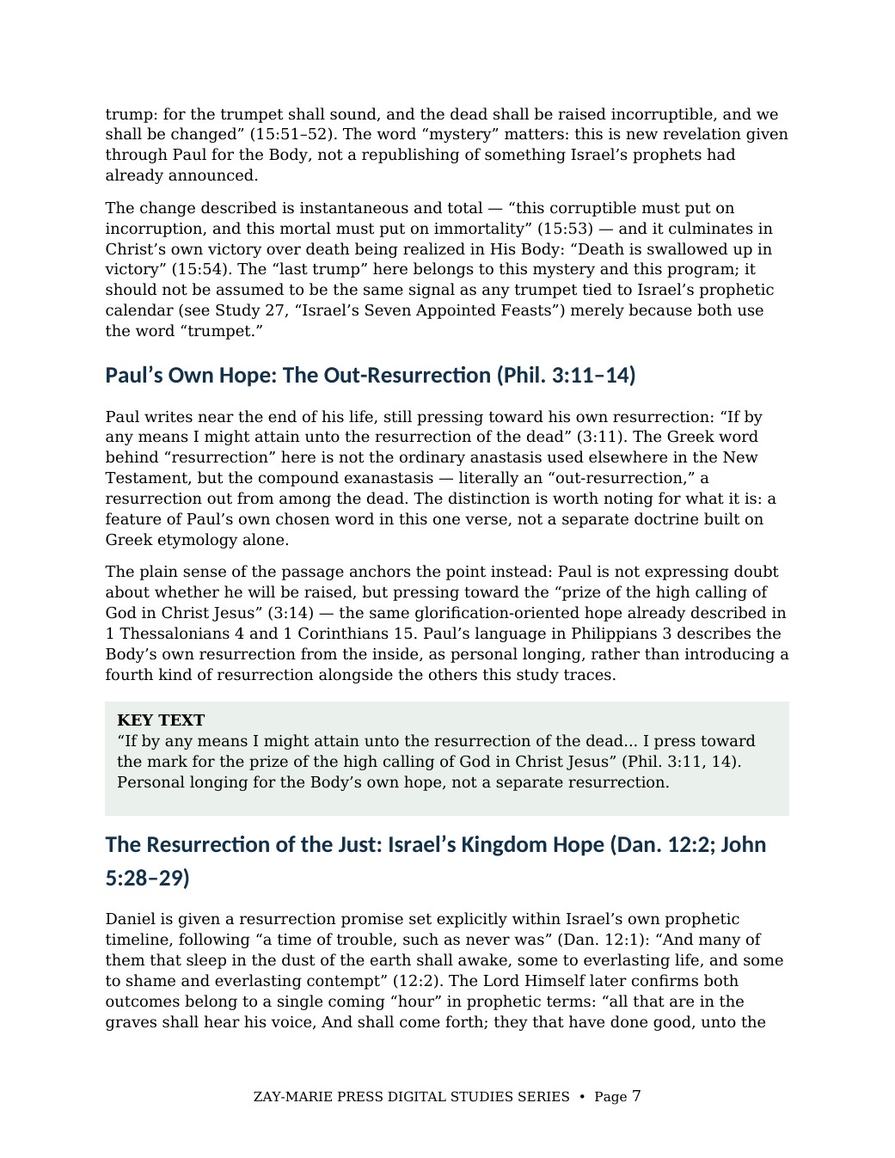
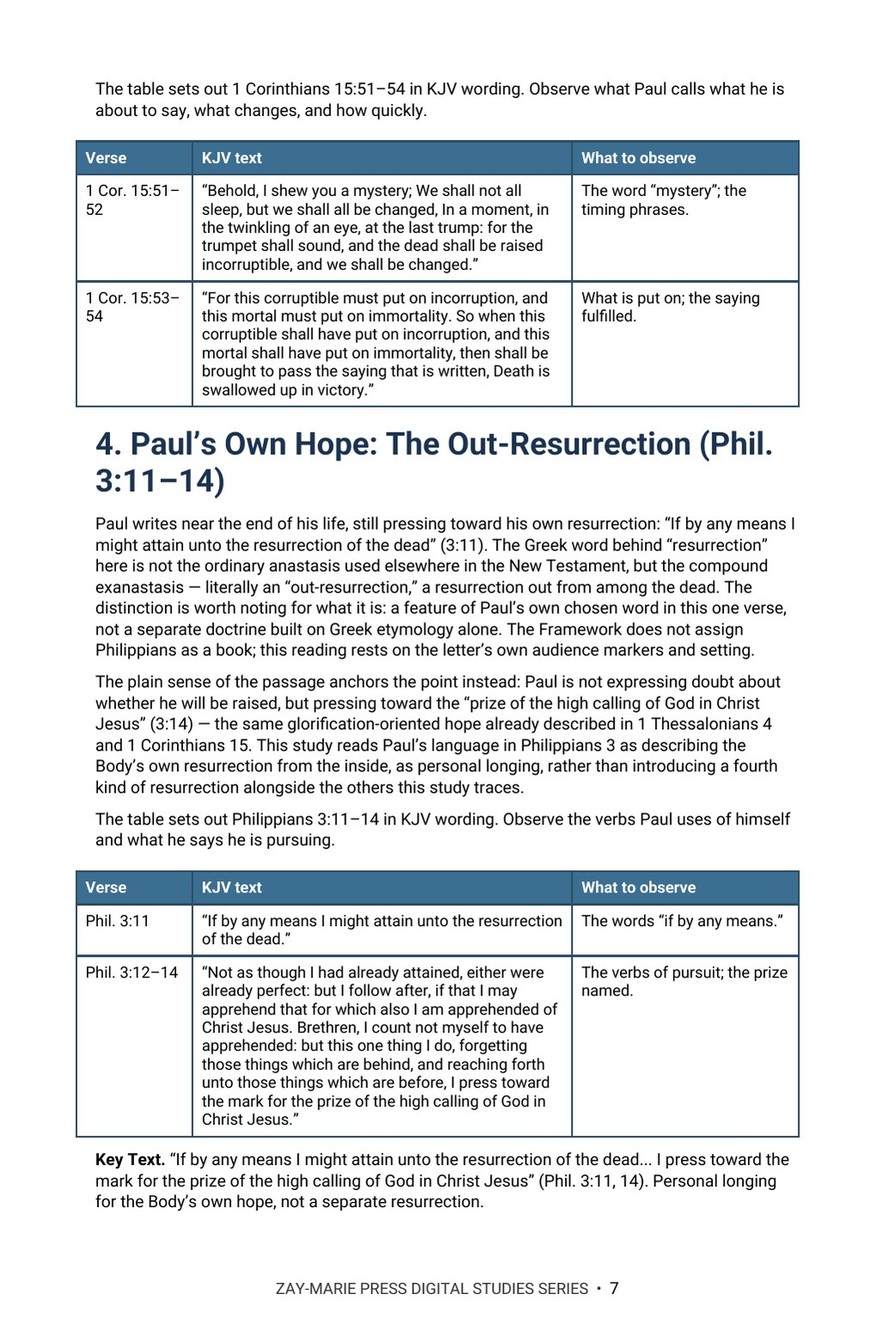
Study 49: PAM/Framework conformance (Study 29 correction), section 17 preview wording, 16 pages, previews re-rendered, audit v1.80
Claude-Session: https://claude.ai/code/session_013kzJPyMkodVfrxEZGjk3me

Changed region(s): [[0.0615, 0.0624, 0.8915, 0.9042], [0.3074, 0.9354, 0.707, 0.9666]]

diff --git a/study-49-the-resurrections-of-scripture.html b/study-49-the-resurrections-of-scripture.html
@@ -1,4 +1,4 @@
 <!doctype html>
 <html lang="en"><head><meta charset="utf-8"><meta name="viewport" content="width=device-width,initial-scale=1"><title>The Resurrections of Scripture | Zay-Marie Press</title><meta name="description" content="Scripture describes more than one resurrection. Distinguish Christ’s firstfruits, the Body’s heavenly hope, Israel’s Kingdom-tied resurrections of the just and unjust, and Ezekiel 37’s national restoration. Preview Study 49 from Zay-Marie Press."><link rel="stylesheet" href="styles.css?v=20260928-8"><link rel="icon" type="image/png" href="assets/zay-marie-press-favicon.png"><style>
 .study-detail-page{background:#fff;color:#252525}.detail-hero{background:linear-gradient(135deg,#f8f5ec,#e3ece2);padding:58px 0}.detail-hero-grid{display:grid;grid-template-columns:minmax(250px,.72fr) minmax(0,1.28fr);gap:58px;align-items:center}.detail-cover{max-width:390px;margin:auto}.detail-cover img{display:block;width:100%;height:auto;box-shadow:0 14px 36px rgba(8,45,69,.18)}.detail-hero h1{font-size:clamp(2.7rem,5vw,4.7rem);line-height:1.02;margin:8px 0 10px;color:#143823}.detail-subtitle{font-family:Georgia,serif;font-size:1.35rem;font-weight:700;color:#082d45;margin:0 0 7px}.detail-kicker{font-family:Georgia,serif;font-style:italic;font-size:1.05rem;color:#4a4a44;margin:0 0 22px}.detail-copy{font-size:1.08rem;line-height:1.65;max-width:760px}.detail-buyline{display:flex;align-items:center;gap:18px;flex-wrap:wrap;margin-top:25px}.detail-price{font-family:Georgia,serif;font-size:2rem;font-weight:700;color:#143823}.detail-format,.preview-card .page-no{font-family:Arial,sans-serif;font-size:.76rem;font-weight:700;letter-spacing:.1em;text-transform:uppercase;color:#176b3a}.detail-button{display:inline-block;background:#176b3a;color:#fff;padding:13px 22px;font-family:Arial,sans-serif;font-size:.8rem;font-weight:700;letter-spacing:.07em;text-transform:uppercase}.detail-button.pending{opacity:.72;cursor:default}.detail-section{padding:66px 0}.detail-section.soft{background:#f6f7f2}.detail-section.cream{background:#faf8f2}.detail-section h2{color:#143823;margin:6px 0 18px;font-size:clamp(2rem,3.4vw,3rem)}.detail-section .lead{max-width:920px;font-size:1.1rem;line-height:1.62}.study-distinction{max-width:920px;margin-top:28px;margin-bottom:28px;padding:26px 28px;background:#fff;border:1px solid #d8d1bf;border-left:4px solid #b8871c}.study-distinction h3{margin:0 0 10px;color:#143823}.study-distinction p{margin:0 0 14px;line-height:1.62}.study-distinction a{font-family:Arial,sans-serif;font-weight:700;color:#176b3a;text-decoration:none}.study-points{display:grid;grid-template-columns:repeat(3,1fr);gap:18px;margin-top:28px;margin-bottom:28px}.study-point,.scripture-card,.preview-card,.include-item{background:#fff;border:1px solid var(--line);text-align:left}.study-point{border-top:3px solid #176b3a;padding:22px}.study-point h3{color:#143823;margin:0 0 8px;font-size:1.2rem}.study-point p,.scripture-card p,.preview-card p,.include-item p{margin:0;line-height:1.55}.scripture-grid{display:grid;grid-template-columns:repeat(4,1fr);gap:14px;margin-top:24px;margin-bottom:24px}.scripture-card{padding:22px 20px;color:#143823}.scripture-card h3{margin:0 0 9px;font-family:Georgia,serif;font-size:1rem;line-height:1.35}.scripture-card p{font-size:.94rem;color:#45453f}.excerpt{max-width:900px;margin:28px auto;border-left:4px solid #b8871c;padding:10px 0 10px 28px}.excerpt blockquote{font-family:Georgia,serif;font-size:clamp(1.45rem,2.5vw,2rem);line-height:1.45;color:#143823;margin:0 0 16px}.excerpt p{line-height:1.6;margin:0}.preview-grid{display:grid;grid-template-columns:repeat(3,1fr);gap:20px;margin-top:28px;margin-bottom:28px}.preview-card{padding:18px;min-height:210px;box-shadow:0 7px 20px rgba(20,40,25,.05)}.preview-image-link{display:block;margin:0 0 18px}.preview-image-link img{display:block;width:100%;height:auto;border:1px solid #d8d1bf;box-shadow:0 8px 22px rgba(20,40,25,.1);transition:transform .18s ease,box-shadow .18s ease}.preview-image-link:hover img{transform:translateY(-2px);box-shadow:0 11px 28px rgba(20,40,25,.16)}.preview-card h3{color:#143823;margin:8px 0 10px}.preview-instruction{margin:10px 0 0;font-family:Arial,sans-serif;font-size:.78rem;letter-spacing:.04em;color:#5b5b55}.includes-grid{display:grid;grid-template-columns:repeat(4,1fr);gap:14px;margin-top:26px}.include-item{padding:22px 20px;color:#143823}.include-item h3{margin:0 0 9px;font-family:Arial,sans-serif;font-size:.86rem;line-height:1.35;letter-spacing:.02em}.include-item p{font-size:.94rem;color:#45453f}.final-buy{background:#082d45;color:#fff;border-top:4px solid #b8871c;padding:42px 48px;display:grid;grid-template-columns:1fr auto;gap:36px;align-items:center}.final-buy .eyebrow,.final-buy h2,.final-buy .detail-price{color:#fff}.final-buy h2{margin:7px 0 6px}.final-buy p{margin:0}.final-offer{text-align:center}.back-link{display:inline-block;margin-top:18px;color:#143823;font-family:Arial,sans-serif;font-weight:700;text-decoration:none}.preview-lightbox{position:fixed;inset:0;z-index:10000;display:none;align-items:flex-start;justify-content:center;background:rgba(8,22,16,.88);padding:24px;overflow:auto}.preview-lightbox.open{display:flex}.preview-lightbox img{display:block;width:auto;height:auto;max-width:none;box-shadow:0 18px 55px rgba(0,0,0,.4);background:#fff}.preview-lightbox-close{position:fixed;top:18px;right:24px;z-index:10001;width:46px;height:46px;border:1px solid rgba(255,255,255,.65);border-radius:50%;background:rgba(0,0,0,.55);color:#fff;font:32px/1 Arial,sans-serif;cursor:pointer}@media(max-width:900px){.detail-hero-grid{grid-template-columns:1fr;gap:34px}.detail-cover{max-width:330px}.study-points{grid-template-columns:repeat(2,1fr)}.scripture-grid,.includes-grid{grid-template-columns:repeat(2,1fr)}.preview-grid,.final-buy{grid-template-columns:1fr}.final-offer{text-align:left}}@media(max-width:560px){.detail-hero{padding:42px 0}.detail-section{padding:50px 0}.study-points,.scripture-grid,.includes-grid{grid-template-columns:1fr}.final-buy{padding:32px 24px}.detail-buyline{align-items:flex-start;flex-direction:column;gap:8px}.preview-lightbox{padding:58px 10px 24px}.preview-lightbox img{width:100%;max-width:100%;height:auto}} .detail-hero h1{font-size:clamp(2.1rem,4.2vw,3.7rem);line-height:1.08}</style></head><body class="study-detail-page">
-<header class="site-header"><div class="wrap nav"><a class="logo" href="index.html" aria-label="Zay-Marie Press home"><img src="assets/zay-marie-press-logo-hq.png" alt="Zay-Marie Press" width="420" height="238"></a><button class="menu-toggle" type="button" aria-expanded="false" aria-controls="primary-nav">MENU</button><nav aria-label="Primary navigation" class="primary-nav" id="primary-nav"><a href="index.html">HOME</a><a href="books.html">BOOKS</a><a href="series.html">SERIES</a><a class="active" aria-current="page" href="digital-studies.html">DIGITAL STUDIES</a><a href="biblical-hermeneutics-course.html">COURSE</a><a href="about.html">ABOUT</a><a href="resources.html">RESOURCES</a><a href="contact.html">CONTACT</a></nav></div></header><main><section class="detail-hero"><div class="wrap detail-hero-grid"><div class="detail-cover"><picture><source srcset="assets/study-49-cover.webp" type="image/webp"><img src="assets/study-49-cover.jpg" alt="The Resurrections of Scripture — Study 49 cover"></picture></div><div><div class="eyebrow">STUDY 49 · DIGITAL STUDY</div><h1>The Resurrections of Scripture</h1><p class="detail-subtitle">One Word, Two Programs, and the Difference Between Them</p><p class="detail-kicker">A Biblical Examination of the Resurrection of the Body of Christ, the Resurrection of the Just and of the Unjust, and Israel's National Restoration in Ezekiel 37</p><p class="detail-copy">Scripture speaks of resurrection more than once, and not always about the same event. Readers who assume there is only one future resurrection — one moment when "the dead" rise, undifferentiated — run past distinctions the text itself makes: who rises, when, in what body, and toward what destiny.</p><p class="detail-copy">This study traces Christ's own resurrection as the guaranteeing "firstfruits," the Body of Christ's own heavenly resurrection revealed as a mystery, Israel's Kingdom-tied resurrections of the just and of the unjust separated by a thousand years, and Ezekiel 37's valley of dry bones — read on its own terms as national restoration, not individual bodily resurrection.</p><div class="detail-buyline"><span class="detail-price">$5.99</span><span class="detail-format">Digital PDF · 14 Pages</span><span class="detail-button pending" aria-disabled="true">Checkout Coming Soon</span></div></div></div></section><section class="detail-section"><div class="wrap"><div class="eyebrow">ABOUT THIS STUDY</div><h2>One Word, Several Events — Kept Distinct</h2><p class="lead">Paul anchors every resurrection this study traces in a single accomplished fact: "now is Christ risen from the dead, and become the firstfruits of them that slept" (1 Cor. 15:20). From there, Scripture describes an order rather than one undivided event — the Body of Christ's own heavenly resurrection, revealed as a mystery and tied to glorification; Israel's Kingdom-tied resurrection of the just at Christ's coming; and the resurrection of the unjust a thousand years later, at the Great White Throne. Ezekiel 37's valley of dry bones borrows resurrection imagery for a different purpose entirely — the text names its own subject as "the whole house of Israel," not individual bodily resurrection.</p><p class="lead">This is not a general study of the Body's future hope, which Study 8 examines through Paul's Day-of-Christ language, nor of the Great White Throne judgment itself, which Study 31 treats at length, nor of the "one taken, one left" passages in Matthew 24 and Luke 17, which Study 29 traces in their own setting. It asks a narrower question: when Scripture uses the word "resurrection," how many distinct events does it actually name, and what governs which one applies to whom?</p><div class="study-distinction"><h3>How These Studies Relate</h3><p>Study 49 traces the distinct resurrections Scripture describes — Christ's own, the Body's, and Israel's — and the Framework principle that keeps them from being flattened into one.</p><p><a href="study-29-one-taken-and-the-other-left.html">Study 29 — One Taken and the Other Left</a> Compare the Body's own heavenly resurrection with the prophetic separation traced there, so the two are never treated as the same event.</p><p><a href="study-31-the-judgments-of-scripture.html">Study 31 — The Judgments of Scripture</a> See the Great White Throne examined in full as a judgment; this study's interest is narrower — the resurrection that brings the unjust dead to stand before it.</p><p><a href="study-08-the-day-of-christ.html">Study 8 — The Day of Christ</a> Compare Paul's Day-of-Christ language with the Body's resurrection hope traced here, both tied to glorification rather than to Israel's Kingdom.</p><p class="connection-guide-link"><a href="study-connections.html#study-49">Explore the full connection guide for Study 49 →</a></p></div><div class="cross-strand-note"><p class="cross-strand-label">FROM THE PARABLES STRAND</p><p>The Rich Man and Lazarus is sometimes read as resurrection teaching. It is not — read the parable alongside this study to see why.</p><p><a href="parable-24-the-rich-man-and-lazarus.html">The Rich Man and Lazarus</a></p></div><div class="eyebrow">WHAT YOU’LL STUDY</div><h2>Trace the Order, the Company, and the Destination</h2><div class="study-points"><div class="study-point"><h3>Firstfruits and What Follows</h3><p>Trace how Christ's own resurrection (1 Cor. 15:20–23) relates to the resurrections that follow it, and test whether the relationship is identity or pattern.</p></div><div class="study-point"><h3>Caught Up to Meet Him</h3><p>Read the Body's own resurrection hope in 1 Thessalonians 4:13–18 and trace its stated destination.</p></div><div class="study-point"><h3>A Revealed Mystery</h3><p>Trace 1 Corinthians 15:51–54's "we shall all be changed" as new revelation given through Paul.</p></div><div class="study-point"><h3>Two Resurrections, Not One</h3><p>See why Revelation 20 separates the resurrection of the just from the resurrection of the unjust by a thousand years.</p></div><div class="study-point"><h3>Ezekiel 37 Is National, Not Individual</h3><p>Read why the text itself names the dry bones "the whole house of Israel," not individual bodily resurrection.</p></div><div class="study-point"><h3>Concurrency Is Not Transfer</h3><p>See why shared resurrection vocabulary across Israel and the Body never means one program's hope has become the other's.</p></div></div><div class="eyebrow">KEY SCRIPTURES</div><h2>Examine the Passages for Yourself</h2><div class="scripture-grid"><div class="scripture-card"><h3>1 Corinthians 15:20–23</h3><p>Christ risen as firstfruits — the guarantee, not the whole harvest, of every resurrection that follows.</p></div><div class="scripture-card"><h3>1 Thessalonians 4:16–17</h3><p>The Body's own resurrection — caught up together to meet the Lord in the air.</p></div><div class="scripture-card"><h3>1 Corinthians 15:51–54</h3><p>The mystery made known — we shall not all sleep, but we shall all be changed.</p></div><div class="scripture-card"><h3>Philippians 3:11, 14</h3><p>Paul's own longing for the Body's hope, not a separate resurrection of its own.</p></div><div class="scripture-card"><h3>Daniel 12:2; John 5:28–29</h3><p>Israel's prophetic resurrection — some to everlasting life, some to shame and contempt.</p></div><div class="scripture-card"><h3>Revelation 20:4, 6</h3><p>The first resurrection — the just reigning with Christ a thousand years.</p></div><div class="scripture-card"><h3>Revelation 20:5, 11–15</h3><p>The Great White Throne — the rest of the dead, raised after the thousand years.</p></div><div class="scripture-card"><h3>Ezekiel 37:11–12</h3><p>Dry bones named plainly as "the whole house of Israel" — national restoration, not individual resurrection.</p></div></div><div class="eyebrow">FROM THE STUDY</div><h2>An Order, Not One Undivided Event</h2><div class="excerpt"><blockquote>"But every man in his own order: Christ the firstfruits; afterward they that are Christ's at his coming" (1 Cor. 15:23).</blockquote><p>Paul does not say all resurrection happens at once. He says there is an order — a first, and an "afterward." That single word, order, is the seed of everything the rest of this study traces out in detail: a guarantee, a heavenly hope, and two further resurrections a thousand years apart.</p></div><div class="eyebrow">A LOOK INSIDE</div><h2>Preview the Study Before You Purchase</h2><p class="preview-instruction">Click any page to enlarge it for reading.</p><div class="preview-grid"><div class="preview-card"><a class="preview-image-link" data-preview-lightbox href="assets/study-49-page-3.jpg"><img src="assets/study-49-page-3.jpg" alt="Study 49 page 3: table of contents"></a><div class="page-no">Page 3</div><h3>Table of Contents</h3><p>See the study's full structure and scope at a glance.</p></div><div class="preview-card"><a class="preview-image-link" data-preview-lightbox href="assets/study-49-page-4.jpg"><img src="assets/study-49-page-4.jpg" alt="Study 49 page 4: what you will learn, study goal, and study outline"></a><div class="page-no">Page 4</div><h3>What You Will Learn</h3><p>See the study's goal, outline, and the question it sets out to answer.</p></div><div class="preview-card"><a class="preview-image-link" data-preview-lightbox href="assets/study-49-page-7.jpg"><img src="assets/study-49-page-7.jpg" alt="Study 49 page 7: Paul's own hope, the out-resurrection"></a><div class="page-no">Page 7</div><h3>Paul's Own Hope: The Out-Resurrection</h3><p>See how the study reads Paul's own longing in Philippians 3:11–14.</p></div></div><div class="eyebrow">WHAT’S INCLUDED</div><h2>A Focused Study Built for<br>Understanding and Teaching</h2><div class="includes-grid"><div class="include-item"><h3>14-Page In-Depth Biblical Study</h3><p>A careful study of Scripture's distinct resurrections, grounded in Paul's letters, the Gospels, Daniel, and Revelation.</p></div><div class="include-item"><h3>12 Core Teaching Sections</h3><p>Progress from Christ's firstfruits through the Body's hope to Israel's Kingdom-tied resurrections and Ezekiel 37.</p></div><div class="include-item"><h3>Key Distinctions to Retain</h3><p>Keep the firstfruits guarantee, the Body's heavenly hope, and Israel's two resurrections clear.</p></div><div class="include-item"><h3>Review and Discussion Questions</h3><p>Test the study's distinctions concerning order, company, and destination.</p></div><div class="include-item"><h3>Teaching Outline</h3><p>A structured framework for teaching the resurrections of Scripture with precision.</p></div><div class="include-item"><h3>Guided Further Study</h3><p>Return to 1 Corinthians 15:35–49 and Ezekiel 36, with directed questions.</p></div><div class="include-item"><h3>Scripture-Tracing Exercise</h3><p>Trace the study's key passages across Paul's letters, the Gospels, Daniel, and Revelation in their own context.</p></div><div class="include-item"><h3>Final Synthesis Exercise</h3><p>Bring the evidence together in one coherent, Scripture-based explanation.</p></div></div><div class="final-buy"><div><div class="eyebrow">STUDY 49 · DIGITAL STUDY</div><h2>The Resurrections of Scripture</h2><p>14-page digital PDF · For personal use</p></div><div class="final-offer"><div class="detail-price">$5.99</div><span class="detail-button pending" aria-disabled="true">Checkout Coming Soon</span></div></div><a class="back-link" href="digital-studies.html">← Back to All Digital Studies</a></div></section><section class="study-method-course-bridge"><div class="wrap"><div class="study-method-course-panel"><div><div class="eyebrow">BUILD THE INTERPRETIVE METHOD</div><h2>Want More Than a Focused Study?</h2><p>Digital Studies examine particular biblical subjects and difficult passages. The 40-lesson Biblical Hermeneutics course teaches a complete, repeatable method for establishing meaning in context, determining proper assignment, and making responsible application.</p></div><a class="btn btn-primary" href="biblical-hermeneutics-course.html">BIBLICAL HERMENEUTICS COURSE</a></div></div></section></main><div class="preview-lightbox" id="preview-lightbox" role="dialog" aria-modal="true" aria-label="Expanded study preview"><button class="preview-lightbox-close" type="button" aria-label="Close preview">×</button><img id="preview-lightbox-image" alt=""></div><footer class="site-footer"><div class="wrap footer-grid"><div class="footer-about"><h3>Zay-Marie Press</h3><p class="footer-tagline"><em>Where the Bible Means What It Says.</em></p><p>Zay-Marie Press is a Christian theological publisher dedicated to producing doctrinally precise, carefully structured biblical resources that equip pastors, teachers, and serious students with clarity, depth, and Scripture-anchored truth.</p><p><a href="https://zaymariepress.com">zaymariepress.com</a><br><a href="mailto:info@zaymariepress.com">info@zaymariepress.com</a></p></div><div class="footer-column"><h3>Explore</h3><div class="footer-links-stacked"><a href="books.html">Books</a><br><a href="series.html">Series</a><br><a href="biblical-hermeneutics-course.html">Course</a><br><a href="digital-studies.html">Digital Studies</a><br><a href="resources.html">Resources</a><br><a href="bible-book-summaries.html">Bible Book Summaries</a><br><a href="doctrinal-packets.html">Doctrinal Packets</a><br><a href="historical-drift.html">Historical Drift</a><br><a href="about.html">About</a><br><a href="contact.html">Contact</a></div></div><div class="footer-column"><h3>Reader Support</h3><div class="footer-links-stacked"><a href="reader-support.html#faq">FAQ</a><br><a href="reader-support.html#shipping-returns">Shipping &amp; Returns</a><br><a href="reader-support.html#digital-downloads">Digital Downloads</a><br><a href="reader-support.html#contact-support">Contact Support</a></div></div><div class="footer-column"><h3>Acts Overlap</h3><p><strong>Acts Overlap Theology Series</strong></p><p><em>Two Distinct Streams. One Overlap.</em></p><p><a href="series.html">Series Overview</a></p></div></div><div class="wrap footer-bottom">© 2026 Zay-Marie Press. All rights reserved.</div></footer><script src="site.js"></script><script>const lightbox=document.getElementById('preview-lightbox'),lightboxImage=document.getElementById('preview-lightbox-image'),closeLightbox=()=>{lightbox.classList.remove('open');lightboxImage.src='';};document.querySelectorAll('[data-preview-lightbox]').forEach(link=>link.addEventListener('click',event=>{event.preventDefault();lightboxImage.src=link.href;lightboxImage.alt=link.querySelector('img').alt;lightbox.classList.add('open');}));document.querySelector('.preview-lightbox-close').addEventListener('click',closeLightbox);lightbox.addEventListener('click',event=>{if(event.target===lightbox)closeLightbox();});document.addEventListener('keydown',event=>{if(event.key==='Escape')closeLightbox();});</script></body></html>
+<header class="site-header"><div class="wrap nav"><a class="logo" href="index.html" aria-label="Zay-Marie Press home"><img src="assets/zay-marie-press-logo-hq.png" alt="Zay-Marie Press" width="420" height="238"></a><button class="menu-toggle" type="button" aria-expanded="false" aria-controls="primary-nav">MENU</button><nav aria-label="Primary navigation" class="primary-nav" id="primary-nav"><a href="index.html">HOME</a><a href="books.html">BOOKS</a><a href="series.html">SERIES</a><a class="active" aria-current="page" href="digital-studies.html">DIGITAL STUDIES</a><a href="biblical-hermeneutics-course.html">COURSE</a><a href="about.html">ABOUT</a><a href="resources.html">RESOURCES</a><a href="contact.html">CONTACT</a></nav></div></header><main><section class="detail-hero"><div class="wrap detail-hero-grid"><div class="detail-cover"><picture><source srcset="assets/study-49-cover.webp" type="image/webp"><img src="assets/study-49-cover.jpg" alt="The Resurrections of Scripture — Study 49 cover"></picture></div><div><div class="eyebrow">STUDY 49 · DIGITAL STUDY</div><h1>The Resurrections of Scripture</h1><p class="detail-subtitle">One Word, Two Programs, and the Difference Between Them</p><p class="detail-kicker">A Biblical Examination of the Resurrection of the Body of Christ, the Resurrection of the Just and of the Unjust, and Israel's National Restoration in Ezekiel 37</p><p class="detail-copy">Scripture speaks of resurrection more than once, and not always about the same event. Readers who assume there is only one future resurrection — one moment when "the dead" rise, undifferentiated — run past distinctions the text itself makes: who rises, when, in what body, and toward what destiny.</p><p class="detail-copy">This study traces Christ's own resurrection as the guaranteeing "firstfruits," the Body of Christ's own heavenly resurrection revealed as a mystery, Israel's Kingdom-tied resurrections of the just and of the unjust separated by a thousand years, and Ezekiel 37's valley of dry bones — read on its own terms as national restoration, not individual bodily resurrection.</p><div class="detail-buyline"><span class="detail-price">$5.99</span><span class="detail-format">Digital PDF · 16 Pages</span><span class="detail-button pending" aria-disabled="true">Checkout Coming Soon</span></div></div></div></section><section class="detail-section"><div class="wrap"><div class="eyebrow">ABOUT THIS STUDY</div><h2>One Word, Several Events — Kept Distinct</h2><p class="lead">Paul anchors every resurrection this study traces in a single accomplished fact: "now is Christ risen from the dead, and become the firstfruits of them that slept" (1 Cor. 15:20). From there, Scripture describes an order rather than one undivided event — the Body of Christ's own heavenly resurrection, revealed as a mystery and tied to glorification; Israel's Kingdom-tied resurrection of the just at Christ's coming; and the resurrection of the unjust a thousand years later, at the Great White Throne. Ezekiel 37's valley of dry bones borrows resurrection imagery for a different purpose entirely — the text names its own subject as "the whole house of Israel," not individual bodily resurrection.</p><p class="lead">This is not a general study of the Body's future hope, which Study 8 examines through Paul's Day-of-Christ language, nor of the Great White Throne judgment itself, which Study 31 treats at length, nor of the "one taken, one left" passages in Matthew 24 and Luke 17, which Study 29 traces in their own setting. It asks a narrower question: when Scripture uses the word "resurrection," how many distinct events does it actually name, and what governs which one applies to whom?</p><div class="study-distinction"><h3>How These Studies Relate</h3><p>Study 49 traces the distinct resurrections Scripture describes — Christ's own, the Body's, and Israel's — and the Framework principle that keeps them from being flattened into one.</p><p><a href="study-29-one-taken-and-the-other-left.html">Study 29 — One Taken and the Other Left</a> Compare the Body's own heavenly resurrection with the prophetic separation traced there, so the two are never treated as the same event.</p><p><a href="study-31-the-judgments-of-scripture.html">Study 31 — The Judgments of Scripture</a> See the Great White Throne examined in full as a judgment; this study's interest is narrower — the resurrection that brings the unjust dead to stand before it.</p><p><a href="study-08-the-day-of-christ.html">Study 8 — The Day of Christ</a> Compare Paul's Day-of-Christ language with the Body's resurrection hope traced here, both tied to glorification rather than to Israel's Kingdom.</p><p class="connection-guide-link"><a href="study-connections.html#study-49">Explore the full connection guide for Study 49 →</a></p></div><div class="cross-strand-note"><p class="cross-strand-label">FROM THE PARABLES STRAND</p><p>The Rich Man and Lazarus is sometimes read as resurrection teaching. It is not — read the parable alongside this study to see why.</p><p><a href="parable-24-the-rich-man-and-lazarus.html">The Rich Man and Lazarus</a></p></div><div class="eyebrow">WHAT YOU’LL STUDY</div><h2>Trace the Order, the Company, and the Destination</h2><div class="study-points"><div class="study-point"><h3>Firstfruits and What Follows</h3><p>Trace how Christ's own resurrection (1 Cor. 15:20–23) relates to the resurrections that follow it, and test whether the relationship is identity or pattern.</p></div><div class="study-point"><h3>Caught Up to Meet Him</h3><p>Read the Body's own resurrection hope in 1 Thessalonians 4:13–18 and trace its stated destination.</p></div><div class="study-point"><h3>The Word "Mystery"</h3><p>Trace what Paul calls a "mystery" in 1 Corinthians 15:51–54, and what he says is changed, when, and how.</p></div><div class="study-point"><h3>Revelation 20 in Order</h3><p>Trace what Revelation 20:4–6 and 20:5, 11–15 say about who is raised, when, and after what interval.</p></div><div class="study-point"><h3>The Valley of Dry Bones</h3><p>Trace how Ezekiel 37:11 itself identifies the bones, and what the chapter says is done with them.</p></div><div class="study-point"><h3>One Word, Several Passages</h3><p>Compare the shared vocabulary — "resurrection," "raised," "changed" — across these passages, and test whether the same word names the same event in each.</p></div></div><div class="eyebrow">KEY SCRIPTURES</div><h2>Examine the Passages for Yourself</h2><div class="scripture-grid"><div class="scripture-card"><h3>1 Corinthians 15:20–23</h3><p>Christ risen as firstfruits — the guarantee, not the whole harvest, of every resurrection that follows.</p></div><div class="scripture-card"><h3>1 Thessalonians 4:16–17</h3><p>The Body's own resurrection — caught up together to meet the Lord in the air.</p></div><div class="scripture-card"><h3>1 Corinthians 15:51–54</h3><p>The mystery made known — we shall not all sleep, but we shall all be changed.</p></div><div class="scripture-card"><h3>Philippians 3:11, 14</h3><p>Paul's own longing for the Body's hope, not a separate resurrection of its own.</p></div><div class="scripture-card"><h3>Daniel 12:2; John 5:28–29</h3><p>Israel's prophetic resurrection — some to everlasting life, some to shame and contempt.</p></div><div class="scripture-card"><h3>Revelation 20:4, 6</h3><p>The first resurrection — the just reigning with Christ a thousand years.</p></div><div class="scripture-card"><h3>Revelation 20:5, 11–15</h3><p>The Great White Throne — the rest of the dead, raised after the thousand years.</p></div><div class="scripture-card"><h3>Ezekiel 37:11–12</h3><p>Dry bones named plainly as "the whole house of Israel" — national restoration, not individual resurrection.</p></div></div><div class="eyebrow">FROM THE STUDY</div><h2>An Order, Not One Undivided Event</h2><div class="excerpt"><blockquote>"But every man in his own order: Christ the firstfruits; afterward they that are Christ's at his coming" (1 Cor. 15:23).</blockquote><p>Paul does not say all resurrection happens at once. He says there is an order — a first, and an "afterward." That single word, order, is the seed of everything the rest of this study traces out in detail: a guarantee, a heavenly hope, and two further resurrections a thousand years apart.</p></div><div class="eyebrow">A LOOK INSIDE</div><h2>Preview the Study Before You Purchase</h2><p class="preview-instruction">Click any page to enlarge it for reading.</p><div class="preview-grid"><div class="preview-card"><a class="preview-image-link" data-preview-lightbox href="assets/study-49-page-2.jpg"><img src="assets/study-49-page-2.jpg" alt="Study 49 page 2: table of contents"></a><div class="page-no">Page 2</div><h3>Table of Contents</h3><p>See the study's full structure and scope at a glance.</p></div><div class="preview-card"><a class="preview-image-link" data-preview-lightbox href="assets/study-49-page-3.jpg"><img src="assets/study-49-page-3.jpg" alt="Study 49 page 3: what you will learn, study goal, and study outline"></a><div class="page-no">Page 3</div><h3>What You Will Learn</h3><p>See the study's goal, outline, and the question it sets out to answer.</p></div><div class="preview-card"><a class="preview-image-link" data-preview-lightbox href="assets/study-49-page-7.jpg"><img src="assets/study-49-page-7.jpg" alt="Study 49 page 7: Paul's own hope, the out-resurrection"></a><div class="page-no">Page 7</div><h3>Paul's Own Hope: The Out-Resurrection</h3><p>See how the study reads Paul's own longing in Philippians 3:11–14.</p></div></div><div class="eyebrow">WHAT’S INCLUDED</div><h2>A Focused Study Built for<br>Understanding and Teaching</h2><div class="includes-grid"><div class="include-item"><h3>16-Page In-Depth Biblical Study</h3><p>A careful study of Scripture's distinct resurrections, grounded in Paul's letters, the Gospels, Daniel, and Revelation.</p></div><div class="include-item"><h3>12 Core Teaching Sections</h3><p>Progress from Christ's firstfruits through the Body's hope to Israel's Kingdom-tied resurrections and Ezekiel 37.</p></div><div class="include-item"><h3>Key Distinctions to Retain</h3><p>Keep the firstfruits guarantee, the Body's heavenly hope, and Israel's two resurrections clear.</p></div><div class="include-item"><h3>Review and Discussion Questions</h3><p>Test the study's distinctions concerning order, company, and destination.</p></div><div class="include-item"><h3>Teaching Outline</h3><p>A structured framework for teaching the resurrections of Scripture with precision.</p></div><div class="include-item"><h3>Guided Further Study</h3><p>Return to 1 Corinthians 15:35–49 and Ezekiel 36, with directed questions.</p></div><div class="include-item"><h3>Scripture-Tracing Exercise</h3><p>Trace the study's key passages across Paul's letters, the Gospels, Daniel, and Revelation in their own context.</p></div><div class="include-item"><h3>Final Synthesis Exercise</h3><p>Bring the evidence together in one coherent, Scripture-based explanation.</p></div></div><div class="final-buy"><div><div class="eyebrow">STUDY 49 · DIGITAL STUDY</div><h2>The Resurrections of Scripture</h2><p>16-page digital PDF · For personal use</p></div><div class="final-offer"><div class="detail-price">$5.99</div><span class="detail-button pending" aria-disabled="true">Checkout Coming Soon</span></div></div><a class="back-link" href="digital-studies.html">← Back to All Digital Studies</a></div></section><section class="study-method-course-bridge"><div class="wrap"><div class="study-method-course-panel"><div><div class="eyebrow">BUILD THE INTERPRETIVE METHOD</div><h2>Want More Than a Focused Study?</h2><p>Digital Studies examine particular biblical subjects and difficult passages. The 40-lesson Biblical Hermeneutics course teaches a complete, repeatable method for establishing meaning in context, determining proper assignment, and making responsible application.</p></div><a class="btn btn-primary" href="biblical-hermeneutics-course.html">BIBLICAL HERMENEUTICS COURSE</a></div></div></section></main><div class="preview-lightbox" id="preview-lightbox" role="dialog" aria-modal="true" aria-label="Expanded study preview"><button class="preview-lightbox-close" type="button" aria-label="Close preview">×</button><img id="preview-lightbox-image" alt=""></div><footer class="site-footer"><div class="wrap footer-grid"><div class="footer-about"><h3>Zay-Marie Press</h3><p class="footer-tagline"><em>Where the Bible Means What It Says.</em></p><p>Zay-Marie Press is a Christian theological publisher dedicated to producing doctrinally precise, carefully structured biblical resources that equip pastors, teachers, and serious students with clarity, depth, and Scripture-anchored truth.</p><p><a href="https://zaymariepress.com">zaymariepress.com</a><br><a href="mailto:info@zaymariepress.com">info@zaymariepress.com</a></p></div><div class="footer-column"><h3>Explore</h3><div class="footer-links-stacked"><a href="books.html">Books</a><br><a href="series.html">Series</a><br><a href="biblical-hermeneutics-course.html">Course</a><br><a href="digital-studies.html">Digital Studies</a><br><a href="resources.html">Resources</a><br><a href="bible-book-summaries.html">Bible Book Summaries</a><br><a href="doctrinal-packets.html">Doctrinal Packets</a><br><a href="historical-drift.html">Historical Drift</a><br><a href="about.html">About</a><br><a href="contact.html">Contact</a></div></div><div class="footer-column"><h3>Reader Support</h3><div class="footer-links-stacked"><a href="reader-support.html#faq">FAQ</a><br><a href="reader-support.html#shipping-returns">Shipping &amp; Returns</a><br><a href="reader-support.html#digital-downloads">Digital Downloads</a><br><a href="reader-support.html#contact-support">Contact Support</a></div></div><div class="footer-column"><h3>Acts Overlap</h3><p><strong>Acts Overlap Theology Series</strong></p><p><em>Two Distinct Streams. One Overlap.</em></p><p><a href="series.html">Series Overview</a></p></div></div><div class="wrap footer-bottom">© 2026 Zay-Marie Press. All rights reserved.</div></footer><script src="site.js"></script><script>const lightbox=document.getElementById('preview-lightbox'),lightboxImage=document.getElementById('preview-lightbox-image'),closeLightbox=()=>{lightbox.classList.remove('open');lightboxImage.src='';};document.querySelectorAll('[data-preview-lightbox]').forEach(link=>link.addEventListener('click',event=>{event.preventDefault();lightboxImage.src=link.href;lightboxImage.alt=link.querySelector('img').alt;lightbox.classList.add('open');}));document.querySelector('.preview-lightbox-close').addEventListener('click',closeLightbox);lightbox.addEventListener('click',event=>{if(event.target===lightbox)closeLightbox();});document.addEventListener('keydown',event=>{if(event.key==='Escape')closeLightbox();});</script></body></html>

diff --git a/site.js b/site.js
@@ -62,7 +62,7 @@ const resourceModal=document.querySelector('#resource-modal'), resourceModalTitl
 if(resourceModal&&resourceModalTriggers.length){const closeResourceModal=()=>{resourceModal.hidden=true;document.body.classList.remove('resource-modal-open');lastResourceTrigger?.focus();};resourceModalTriggers.forEach(trigger=>trigger.addEventListener('click',()=>{lastResourceTrigger=trigger;if(resourceModalTitle)resourceModalTitle.textContent=trigger.dataset.title||'Resource';if(resourceModalDescription)resourceModalDescription.textContent=trigger.dataset.description||'';if(resourceModalLink){resourceModalLink.href=trigger.dataset.href||'#';resourceModalLink.textContent=trigger.dataset.linkText||'OPEN RESOURCE';}resourceModal.hidden=false;document.body.classList.add('resource-modal-open');resourceModalClose?.focus();}));resourceModalClose?.addEventListener('click',closeResourceModal);resourceModal.addEventListener('click',e=>{if(e.target===resourceModal)closeResourceModal();});document.addEventListener('keydown',e=>{if(e.key==='Escape'&&!resourceModal.hidden)closeResourceModal();});}
 
 /* Display the verified final-PDF page count at the primary purchase decision point. */
-const digitalStudyPageCounts={1:14,2:14,3:18,4:18,5:16,6:16,7:16,8:16,9:16,10:23,11:15,12:14,13:18,14:15,15:16,16:16,17:18,18:18,19:16,20:16,21:16,22:16,23:16,24:16,25:17,26:18,27:16,28:16,29:16,30:17,31:19,32:16,33:16,34:16,35:16,36:16,37:16,38:16,39:16,40:16,41:16,42:16,43:16,44:16,45:16,46:16,47:16,48:16,49:14,50:14,51:15,52:15,53:15,54:15,55:16,56:16,61:16,62:16,63:16,64:16,65:16,66:16,67:16,68:16,69:16,70:16,71:16};
+const digitalStudyPageCounts={1:14,2:14,3:18,4:18,5:16,6:16,7:16,8:16,9:16,10:23,11:15,12:14,13:18,14:15,15:16,16:16,17:18,18:18,19:16,20:16,21:16,22:16,23:16,24:16,25:17,26:18,27:16,28:16,29:16,30:17,31:19,32:16,33:16,34:16,35:16,36:16,37:16,38:16,39:16,40:16,41:16,42:16,43:16,44:16,45:16,46:16,47:16,48:16,49:16,50:14,51:15,52:15,53:15,54:15,55:16,56:16,61:16,62:16,63:16,64:16,65:16,66:16,67:16,68:16,69:16,70:16,71:16};
 const digitalStudyMatch=window.location.pathname.match(/\/study-(\d+)-/i);
 const digitalStudyFormat=document.querySelector('.detail-hero .detail-format');
 if(digitalStudyMatch&&digitalStudyFormat){const studyNumber=Number(digitalStudyMatch[1]),pageCount=digitalStudyPageCounts[studyNumber];if(pageCount)digitalStudyFormat.textContent=`Digital PDF · ${pageCount} Pages`;}

diff --git a/controlling-documents/Digital_Studies_PAM_Audit_v1.80.md b/controlling-documents/Digital_Studies_PAM_Audit_v1.80.md
@@ -1,4 +1,4 @@
-# Digital Studies vs. PAM Audit — v1.79
+# Digital Studies vs. PAM Audit — v1.80
 
 Working tracker and instructions for checking the Digital Studies against the Program Assignment Manual (PAM), §XIX of `Framework_Control_Document_Acts_Overlap.docx`, including its "Section 4 — Publisher Rulings". Same `_vX.Y` convention as the other controlling documents: update the status table and changelog as the audit proceeds, bump the version, and rename the file to match.
 
@@ -309,3 +309,4 @@ Study 15 PDF not yet supplied. Typography: none of Studies 2, 3, 6, 8 is in EB G
 - v1.77 (2026-10-01): Study 46 (Secure in Christ) read in full against the PAM and Framework from the publisher's DOCX (FINAL): no conflicts; Rules 7–12 wording applied and two points ruled by the publisher. Conforming wording (Rule 8): the verbatim Hebrews sentence at the start of Section 8, and the template sentences for Revelation and 2 Timothy at first use; Hebrews and Revelation rows in the audience table now read "This study reads it as addressed to…" and "read, as Study 26 reads it, within Israel's prophetic setting"; "assigned audiences" became "own audiences"; the website's Hebrews 6:4–6 card says "as this study reads it". Rulings (Rule 12): passage-level sentences "The Framework does not assign [passage]; this reading rests on the passage's own audience markers and setting." for Romans 8:28–39, 1 Corinthians 15:1–2 and Galatians 5:1–6, and the generic Rule 12 sentence for Colossians 1:21–23. 2 Timothy 2:12 is marked as the study's reading in text, table and Key Distinctions ("This study reads verse 12 as addressing reward, not standing."). Preview wording (§17): the Study Goal, the What You Will Learn intro and bullets 2, 5 and 8, and the Study Outline (intro, Stage One, Stage Two) reworded to process wording; the website's six What You'll Study points already conformed. Rebuilt to the Roboto/Standard format at 16 pages (cover + 15) with nine neutral KJV tables; five boxed callouts (Study Goal, Seal, Chain, Reward, Audience), Faithfulness Control and License Control as bold run-ins; the arrows in the Chain Control line became commas because Roboto has no arrow glyph; Imprint: unified Marien line. Category: Doctrinal Themes. Cover: publisher-supplied artwork replaces the wax-seal cover; "Made with AI" badge removed, title area rebuilt, DOCTRINAL THEMES label, title and three-line subtitle set to the Standard over a navy top gradient (v2, chosen for legibility), JPG + WebP. Website: page count 15 to 16 (buyline, final panel, site.js 46:16, "16-Page In-Depth Biblical Study"); "Two Comparison Tables" became "Fourteen Reference Tables"; previews replaced with pages 2 (Table of Contents), 3 (What You Will Learn) and 11 (Objection Texts and Their Audiences); old page-7 and page-9 images removed.
 - v1.78 (2026-10-01): Study 47 (Giving Under Grace) read in full against the PAM and Framework from the publisher's DOCX (REVISED): no conflicts; the PAM's 2 Cor 8–9 assignment (Mystery Program, Body practice) is followed. Rules 7–12 wording applied, and the publisher approved all proposed wording exactly. Rule 7: the standing overlap sentence is in the Introduction (¶4, beside the Romans 15:25–27 anchor), the Acts Overlap Distinction callout, the Study Summary and the Final Synthesis. Rule 8: Philippians anchoring sentence at first treatment. Rule 12 (passage-level form): Romans 15:25–27 and 1 Corinthians 16:1–2. Rule 9: Acts 4:32–37 labelled "Kingdom period (Acts 1–8, Prophecy Program)" and Acts 11:27–30 labelled "Overlap". Correction: "named brethren" became "the brethren" (Review Q4, the website About paragraph, point and Key Scriptures card, and the connections entry for Study 48). §17: the Study Goal and What You Will Learn bullets 2, 3, 4, 8 and 9 were rewritten as process statements, as were the website points The Macedonian Pattern, A Willing Mind and Its Measure, Equality and the Manna, Administered With Integrity and Contentment and Israel's Tithe. Layout: six callouts reduced to five boxed (the closing Key Text became a run-in), teaching sections renumbered 1–13 with cross-references remapped, ten KJV tables, unified imprint, 16 pages. Website preview set changed to pages 2, 3 and 9 (page 13 removed); "17 Core Teaching Sections" corrected to 13. The cover is unchanged from the website (BODY OF CHRIST), set into the interior at 1600×2400 from the 1024×1536 file.
 - v1.79 (2026-10-01): Study 48 (The Christian Household) read in full against the PAM and Framework from the publisher's DOCX (REVISED): no conflicts. Ephesians, Colossians, 1 Timothy, Philemon and Titus are read as Body instruction under the Framework's "Romans–Philemon governs the Body," so no anchoring sentence is used for them; 1 Corinthians 11:3 is Body practice. Three points ruled by the publisher: (1) Galatians 3:28 takes the passage-level Rule 12 sentence (Study 42 form) at first treatment; (2) 1 Peter 3:1–7 in Guided Further Study carries the Rule 8 anchoring sentence, the audience wording "Jewish believers scattered abroad (1:1)" and the Rule 7 overlap sentence; (3) the "no Acts Overlap distinction is required" claim is kept, with "without borrowing from or contrasting with a Kingdom-era household law" changed to "without importing a Kingdom-era household instruction; 1 Peter 3:1–7 appears only in Guided Further Study as a comparison." Corrections: the 1 Corinthians 11:3 quotation in the Key Distinction callout ("Christ is the head of the woman is the man" became "the head of the woman is the man"); the Greek note (5:21 is a participle dependent on 5:18's "be filled", not a shared verb); "named brethren" became "the brethren" in the website related link to Study 47. §17: Study Goal, What You Will Learn bullets 1, 3, 5 and 7, and the website points on the hinge verse and servants and masters were rewritten as process statements. Layout: six callouts reduced to five boxed (the 1 Timothy 5:8 Key Text became a run-in), teaching sections renumbered 1–12, twelve KJV tables, unified imprint, 16 pages (from 15; site.js 48:16 and the page text updated; "14 Core Teaching Sections" corrected to 12). Preview images re-rendered for pages 2, 3 and 5. Cover unchanged from the website (BODY OF CHRIST), upscaled from 1024×1536 for the interior.
+- v1.80 (2026-10-01): Study 49 (The Resurrections of Scripture) read in full against the PAM and Framework from the publisher's DOCX (REVISED): one conflict, corrected under the Framework's standing "one taken, one left" ruling, which names Study 49 specifically. The Section 2 sentence "Study 29 … traces this same event in fuller detail" and the Guided Further Study line "a fuller treatment of the Body's own rapture hope" described Study 29 as tracing the Body's event of 1 Thessalonians 4; both now say Study 29 treats the "one taken, one left" passages, Israel's Tribulation separation (Prophecy Program), a different event, read for contrast. (The website's About paragraph had already been corrected.) Conforming wording applied under Rules 7–12 and noted: Rule 8 anchoring sentences for 1 Thessalonians, Philippians and Revelation at first treatment, with the Revelation 20 and Philippians 3 placements stated as "This study reads…"; Rule 12 passage-level sentence for John 5:28–29 (not in the PAM's John list), applied by the publisher's confirmation that no ruling was needed; Rule 7 remnant clarifier added in the Introduction, Section 11 and the Study Summary, where "Israel's resurrections" are set beside "the Body's"; "heavenly and imminent, without a described sign preceding it" became "heavenly and tied to glorification" (the Framework is silent on imminence, PAM Rule 1); John 5:28–29 "a single coming 'hour'" became "names both outcomes together" (the study separates them by a thousand years). The Framework's resurrection table (Israel: prophetic resurrections tied to the Kingdom; Body: heavenly resurrection tied to glorification) and the harpazō ruling for 1 Thessalonians 4:17 are followed. §17: the Study Goal, What You Will Learn bullets 1, 2, 5 and 7 and the website points A Revealed Mystery, Two Resurrections Not One, Ezekiel 37 Is National and Concurrency Is Not Transfer were rewritten as process statements with neutral headings. Layout: seven callouts reduced to five boxed (the Philippians 3 and Revelation 20 Key Texts became run-ins), teaching sections renumbered 1–12 with cross-references remapped (Sections 6 and 11 became 2 and 7), ten KJV tables, unified imprint, 16 pages (from 14; site.js 49:16 and the page text updated). Preview images re-rendered for pages 2, 3 and 7 (page 4 removed). Cover unchanged from the website (DOCTRINAL THEMES), upscaled from 1024×1536 for the interior.
